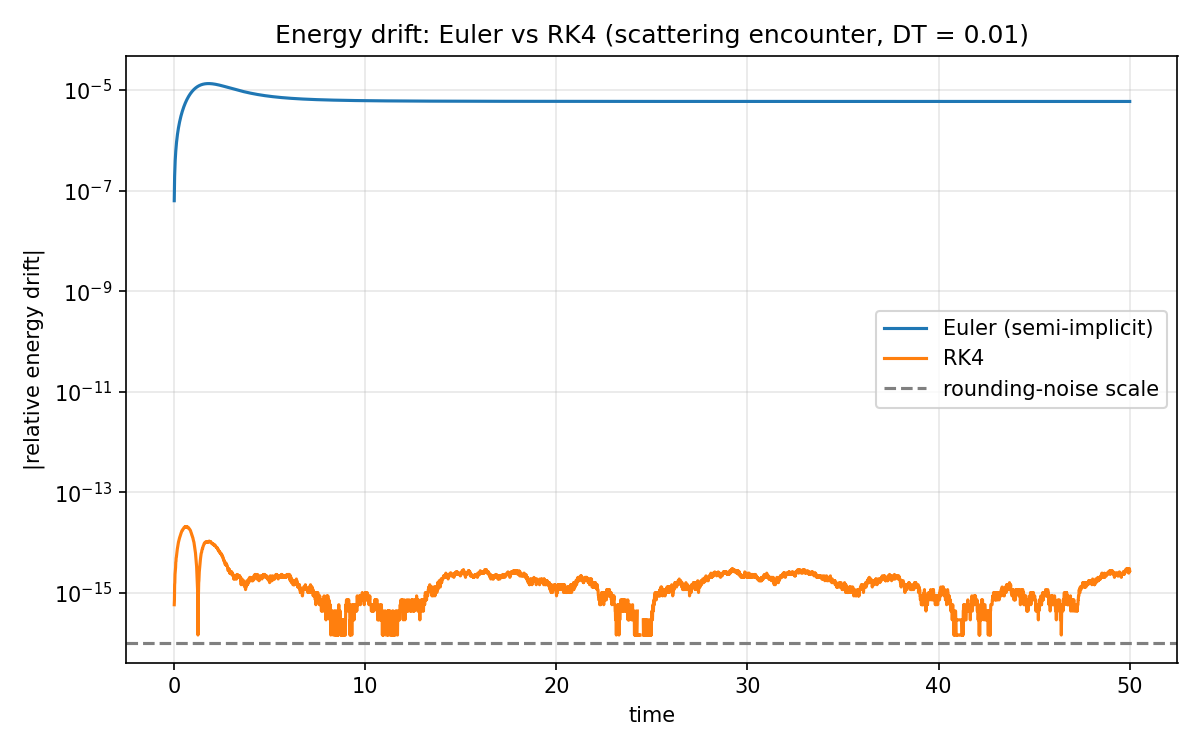
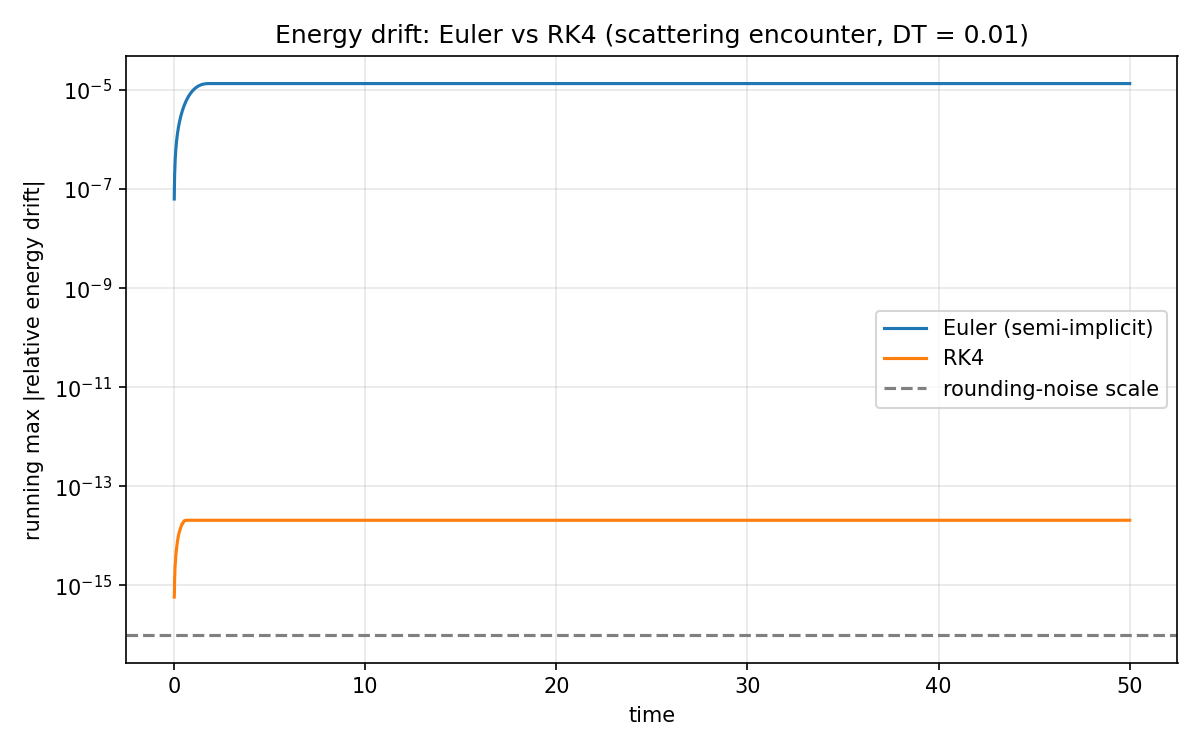
Plot running max |drift| instead of pointwise |drift|; remove debug print in run()

diff --git a/physics.py b/physics.py
@@ -3,7 +3,7 @@ import matplotlib.pyplot as plt
 
 G = 1        # gravitational constant (toy units)
 DT = 0.01    # fixed physics timestep, independent of render dt
-STEPS = 5000  # start at 10 to check against entry 13, then raise to thousands
+STEPS = 5000
 
 INITIAL_POSITIONS = np.array([[0.0, 0.0, 0.0, 0.0],
                               [1.0, 3.0, 9.0, 2.0]])
@@ -66,37 +66,37 @@ def rk4_step(positions, velocities, masses, dt):
     return new_positions, new_velocities
 
 
-
 def run(step_fn, dt, steps):
+    """Returns (relative energy drift per step, closest separation seen)."""
     positions = INITIAL_POSITIONS.copy()
     velocities = INITIAL_VELOCITIES.copy()
     energy_drift = []
-    initial_energy = total_energy(positions,velocities,MASSES)
-    min_seperation = float("inf") # minimum distance between two objects; initially infinity
-    
-    for i in range(steps):
-        positions,velocities = step_fn(positions,velocities,MASSES,dt)
-        new_energy = total_energy(positions,velocities,MASSES)
-        energy_drift.append((new_energy-initial_energy)/abs(initial_energy))
-        seperation = positions[1] - positions[0]
-        r_squared = np.dot(seperation,seperation)
-        r = np.sqrt(r_squared)
-        min_seperation = min(min_seperation,r)
+    initial_energy = total_energy(positions, velocities, MASSES)
+    min_seperation = float("inf")  # minimum distance between two objects; initially infinity
 
-    print(np.sqrt(r_squared))
-    return energy_drift,min_seperation
+    for i in range(steps):
+        positions, velocities = step_fn(positions, velocities, MASSES, dt)
+        new_energy = total_energy(positions, velocities, MASSES)
+        energy_drift.append((new_energy - initial_energy) / abs(initial_energy))
+        seperation = positions[1] - positions[0]
+        r = np.sqrt(np.dot(seperation, seperation))
+        min_seperation = min(min_seperation, r)
+
+    return energy_drift, min_seperation
+
 
 def plot_drift(euler_drift, rk4_drift, dt):
     t = np.arange(1, len(euler_drift) + 1) * dt
-    plt.figure(figsize=(8, 5))
-    plt.semilogy(t, np.abs(euler_drift), label="Euler (semi-implicit)")
-    rk4_abs = np.abs(rk4_drift)
-    rk4_abs[rk4_abs < 1e-17] = np.nan          # mask sub-noise points
-    plt.semilogy(t, rk4_abs, label="RK4")
+    # running max: "worst error so far". Never decreases, so no log-axis dips.
+    euler_max = np.maximum.accumulate(np.abs(euler_drift))
+    rk4_max = np.maximum.accumulate(np.abs(rk4_drift))
 
+    plt.figure(figsize=(8, 5))
+    plt.semilogy(t, euler_max, label="Euler (semi-implicit)")
+    plt.semilogy(t, rk4_max, label="RK4")
     plt.axhline(1e-16, color="gray", linestyle="--", label="rounding-noise scale")
     plt.xlabel("time")
-    plt.ylabel("|relative energy drift|")
+    plt.ylabel("running max |relative energy drift|")
     plt.title("Energy drift: Euler vs RK4 (scattering encounter, DT = " + str(dt) + ")")
     plt.legend()
     plt.grid(True, which="both", alpha=0.3)
@@ -104,12 +104,10 @@ def plot_drift(euler_drift, rk4_drift, dt):
     plt.savefig("drift.png", dpi=150)
     plt.show()
 
-    
-
 
 if __name__ == "__main__":
-    euler_drift,closest_euler = run(euler_step, DT, STEPS)
-    rk4_drift,closest_rk4 = run(rk4_step, DT, STEPS)
-    print("Euler final drift:", euler_drift[-1],"closest: ",closest_euler)
-    print("RK4   final drift:", rk4_drift[-1],"closest: ",closest_rk4)
-    plot_drift(euler_drift,rk4_drift,DT)
+    euler_drift, closest_euler = run(euler_step, DT, STEPS)
+    rk4_drift, closest_rk4 = run(rk4_step, DT, STEPS)
+    print("Euler final drift:", euler_drift[-1], "closest:", closest_euler)
+    print("RK4   final drift:", rk4_drift[-1], "closest:", closest_rk4)
+    plot_drift(euler_drift, rk4_drift, DT)
